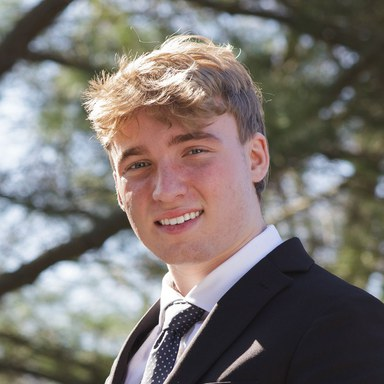
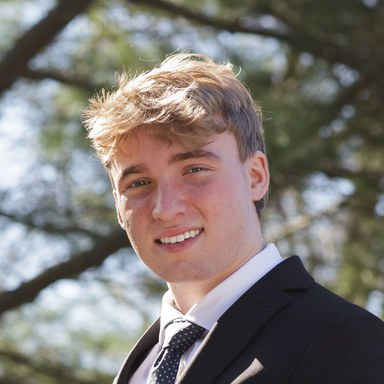
Profile photo crop

diff --git a/index.html b/index.html
@@ -79,7 +79,7 @@
     <main class="ed" id="main" tabindex="-1">
       <!-- ===== Hero: a profile photo, then the introduction as one sentence of display type ===== -->
       <section class="ed-hero" aria-labelledby="intro">
-        <img class="ed-avatar" src="img/avatar.jpg?v=2" alt="Ryan Greene" width="384" height="384" fetchpriority="high">
+        <img class="ed-avatar" src="img/avatar.jpg?v=3" alt="Ryan Greene" width="384" height="384" fetchpriority="high">
         <h1 class="ed-sentence" id="intro"><strong>I’m Ryan Greene</strong>, a Computer Science and Mathematics student at <strong class="hc-word" tabindex="0" aria-describedby="hc-nu">Northeastern<span class="hc" id="hc-nu" aria-hidden="true"><span class="hc-top"><img src="img/logos/northeastern.png" alt="" width="40" height="40"><span><span class="hc-t">Northeastern University</span><span class="hc-s">B.S. Computer Science, Minor in Mathematics</span></span></span><span class="hc-b">GPA 3.74 · Dean’s List · Dean’s Scholarship</span><span class="hc-f">Expected Dec 2027 · Boston, MA</span></span></strong>, currently interning at <strong class="hc-word" tabindex="0" aria-describedby="hc-ft">Flow Traders<span class="hc" id="hc-ft" aria-hidden="true"><span class="hc-top"><img src="img/logos/flow-traders.png" alt="" width="40" height="40"><span><span class="hc-t">Flow Traders</span><span class="hc-s">Trading Infrastructure Engineer Intern</span></span></span><span class="hc-b">Building automation and monitoring for trading infrastructure across the US, Europe and Asia.</span><span class="hc-f">Jul 2026 – Present · Manhattan, NY</span></span></strong> in <span class="hc-word" tabindex="0" aria-describedby="hc-ny">New York<span class="hc" id="hc-ny" aria-hidden="true"><span class="hc-top"><span><span class="hc-t">New York</span><span class="hc-s">Local time</span></span></span><span class="hc-clock"><time class="ny-time"></time></span><span class="hc-f">Manhattan, NY</span></span></span>. Here’s some of what I’ve been building.</h1>
         <div class="ed-actions">
           <a class="btn btn-primary" href="mailto:greene.ry@northeastern.edu">Get in touch</a>
